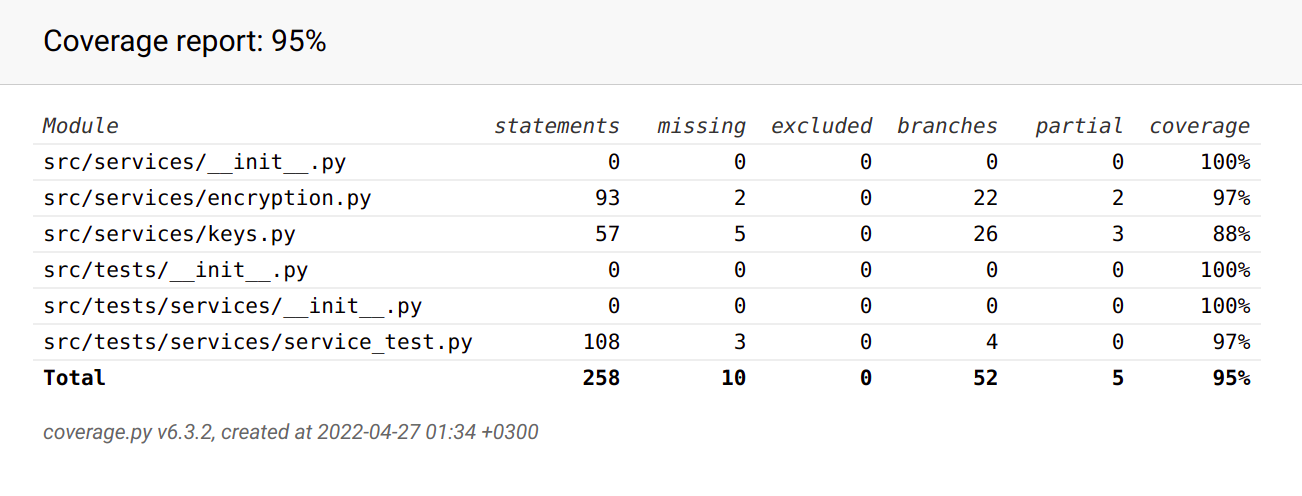
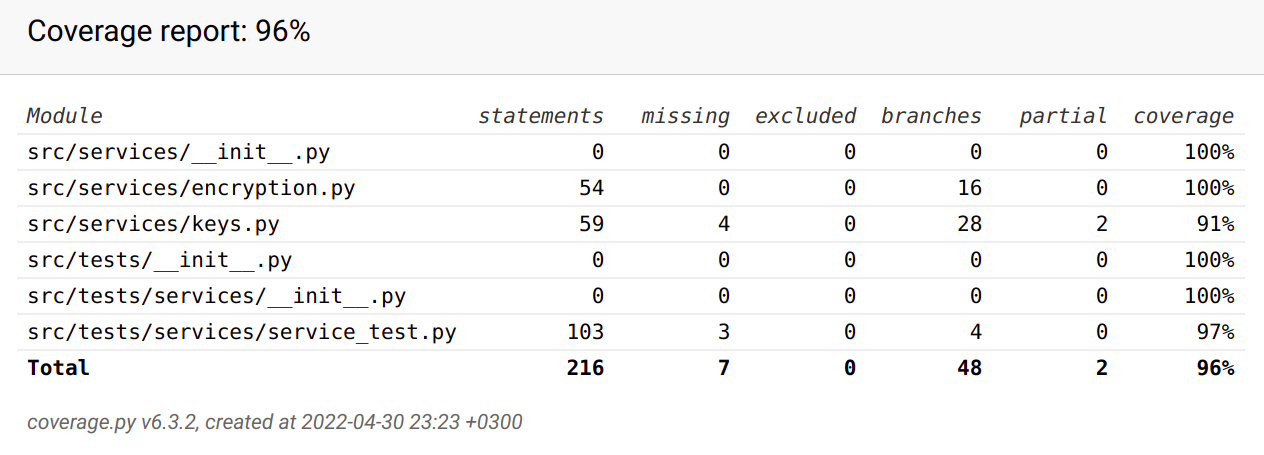
Add new tests and update coverage report

diff --git a/src/tests/services/service_test.py b/src/tests/services/service_test.py
@@ -5,13 +5,20 @@ import services.encryption
 
 class TestKeyCreationFunctions(unittest.TestCase):
 
-    def test_find_exponent(self):
+    def test_find_exponent_returns_2_tuple(self):
+        result = services.keys.find_exponent(52)
+        self.assertIsInstance(result, tuple)
+        self.assertEqual(len(result), 2)
+
+    def test_find_exponent_returns_correct_result(self):
         result = services.keys.find_exponent(52)
         self.assertEqual(result, (13, 2))
-
-    def test_find_exponent2(self):
         result = services.keys.find_exponent(220)
         self.assertEqual(result, (55, 2))
+
+    def test_miller_rabin_primality_test_returns_boolean(self):
+        result = services.keys.miller_rabin_primality_test(109)
+        self.assertIsInstance(result, bool)
 
     def test_miller_rabin_primality_test_with_prime(self):
         self.assertTrue(services.keys.miller_rabin_primality_test(2))
@@ -26,11 +33,14 @@ class TestKeyCreationFunctions(unittest.TestCase):
         self.assertFalse(
             services.keys.miller_rabin_primality_test(42738459243))
 
-    def test_extended_euclidean(self):
+    def test_extended_euclidean_returns_3_tuple(self):
+        result = services.keys.extended_euclidean(1180, 482)
+        self.assertIsInstance(result, tuple)
+        self.assertEqual(len(result), 3)
+
+    def test_extended_euclidean_returns_correct_result(self):
         result = services.keys.extended_euclidean(1180, 482)
         self.assertEqual(result, (2, -29, 71))
-
-    def test_extended_euclidean2(self):
         result = services.keys.extended_euclidean(888, 54)
         self.assertEqual(result, (6, -2, 33))
 
@@ -98,8 +108,17 @@ class TestEncryptionAndDecryptionFunctions(unittest.TestCase):
             "aaa", key[0], key[1])
         self.assertNotEqual(test_value1, test_value2)
 
-    def test_decrypt_message_returns_correct_message(self):
+    def test_decrypt_message_returns_correct_short_message(self):
         m = "Testing, testing..."
+        keys = services.keys.create_keys()
+        encrypted = services.encryption.encrypt_message(
+            m, keys[0][0], keys[0][1])
+        decrypted = services.encryption.decrypt_message(
+            encrypted, keys[1][0], keys[1][1])
+        self.assertEqual(decrypted, m)
+
+    def test_decrypt_message_returns_correct_long_message(self):
+        m = "abcdE" * 100
         keys = services.keys.create_keys()
         encrypted = services.encryption.encrypt_message(
             m, keys[0][0], keys[0][1])
